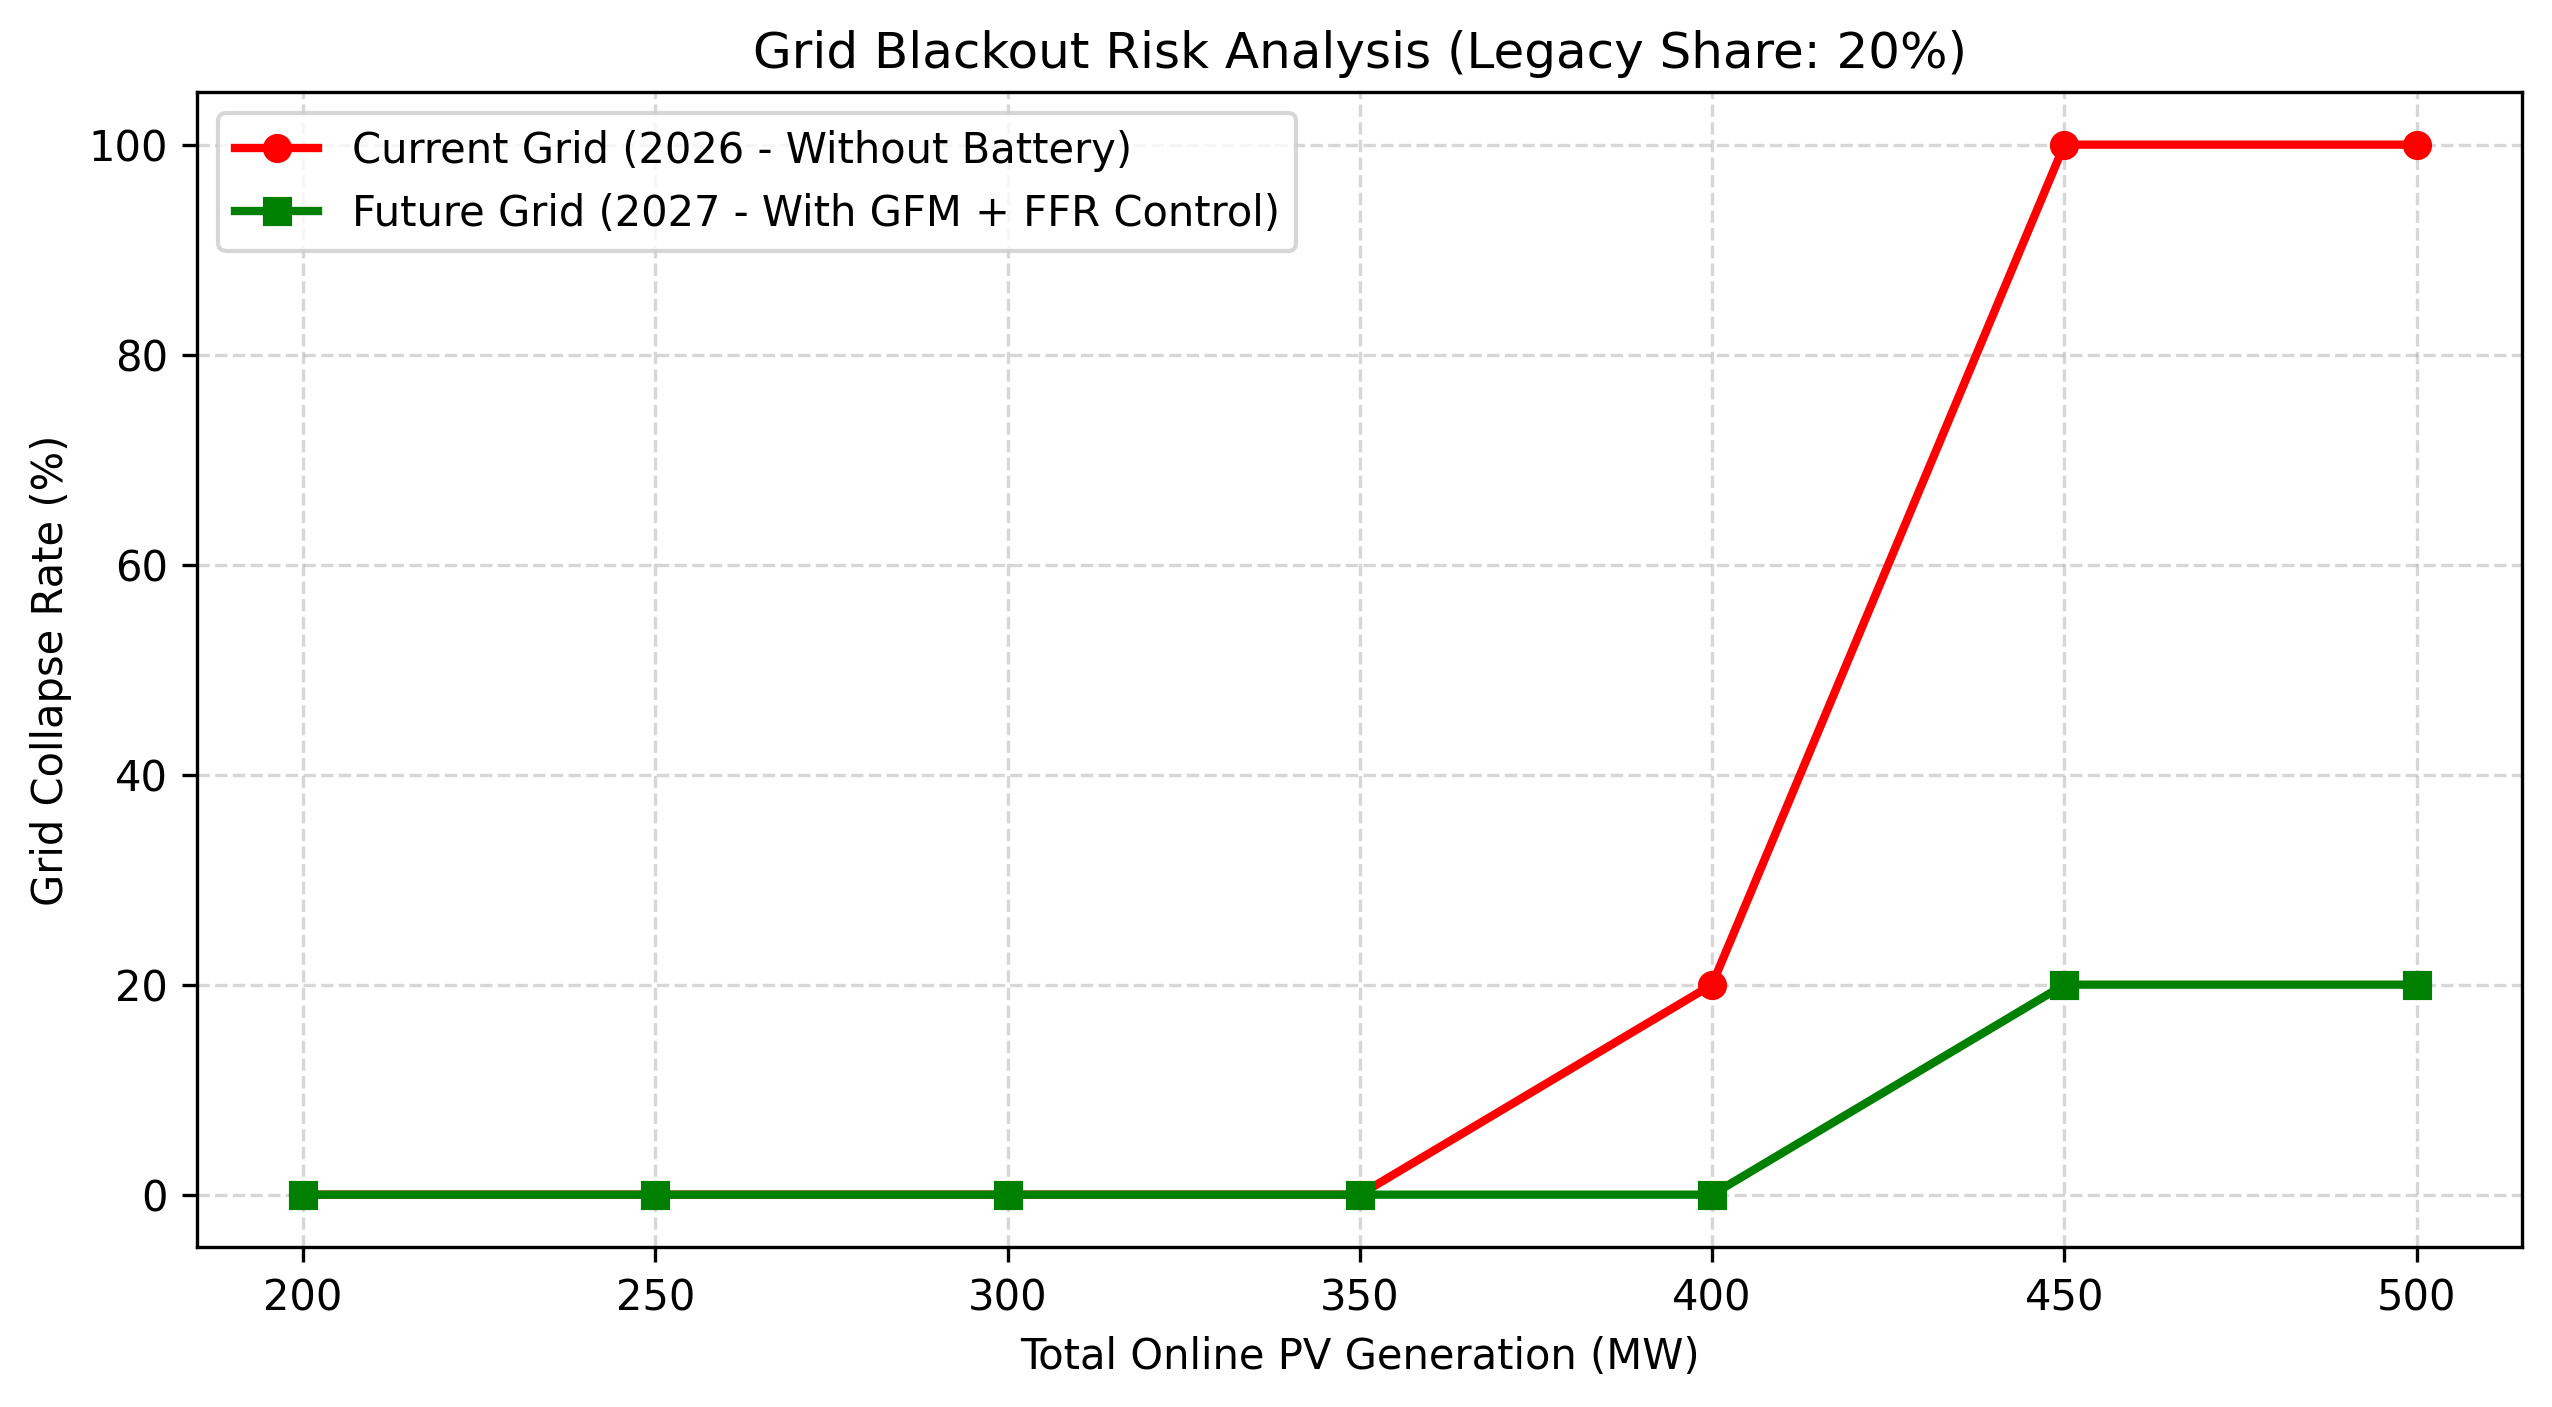
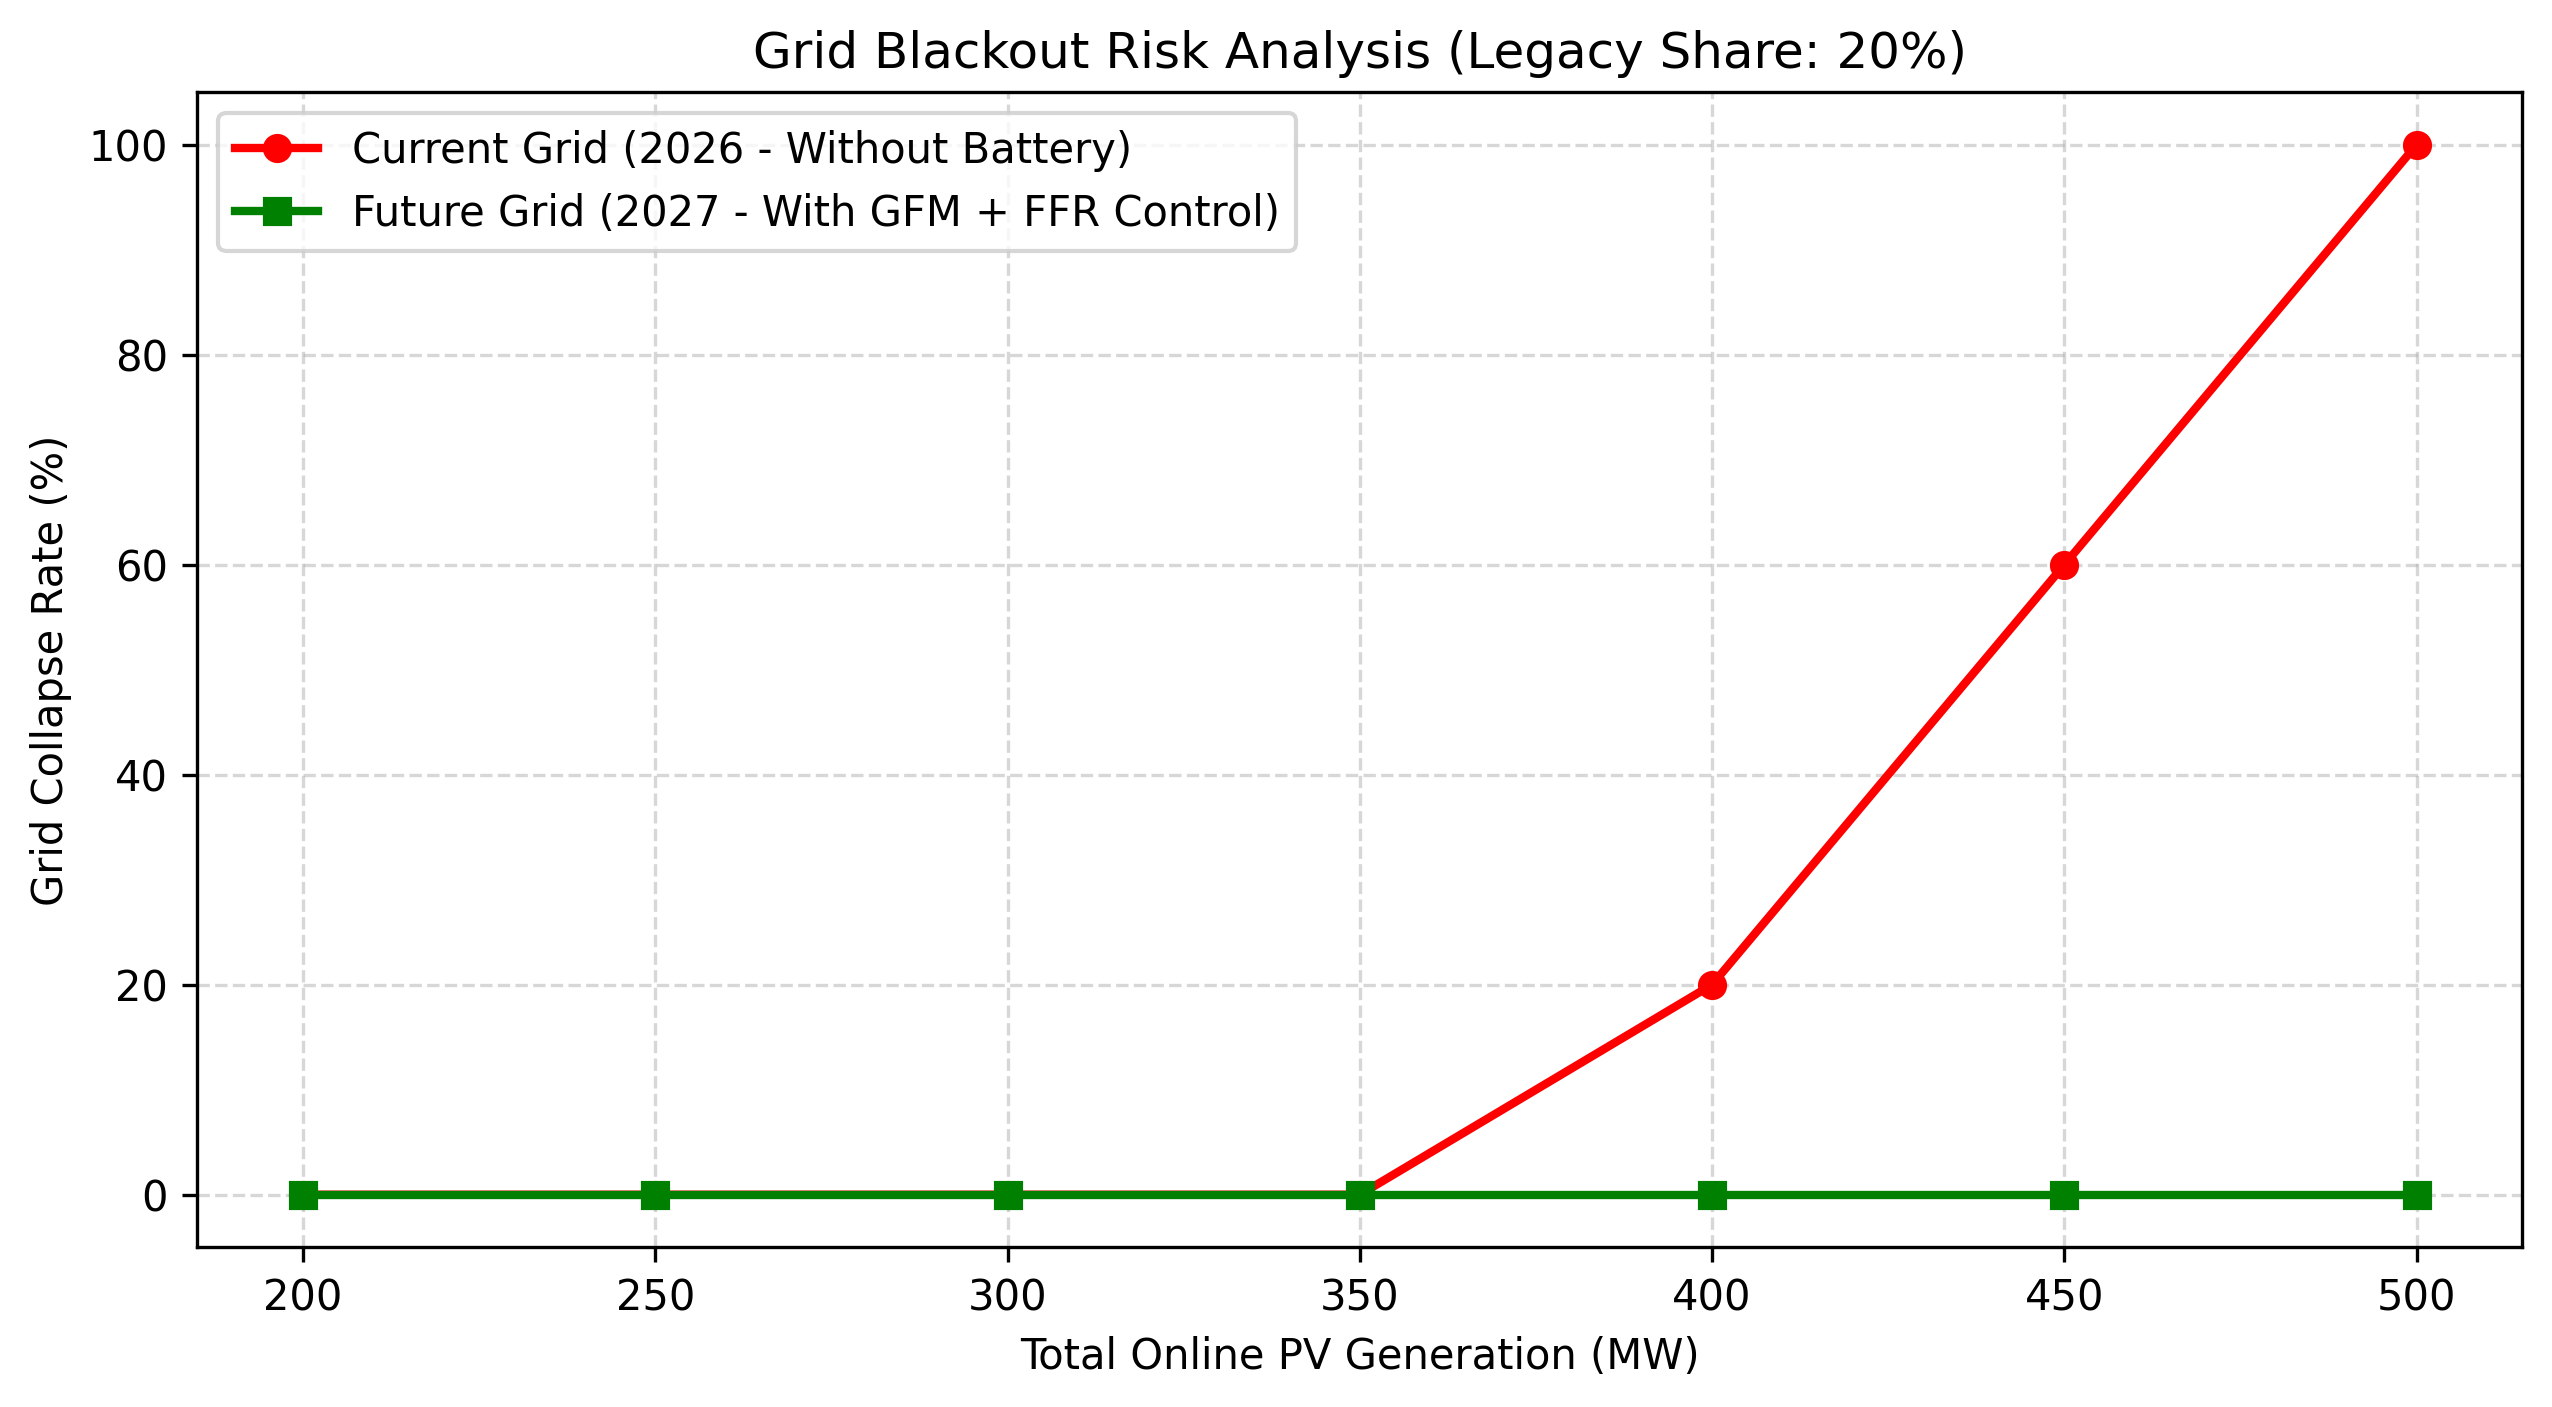
Add SOC,UFLS Cordination and VSM

diff --git a/src/pv_cascade.py b/src/pv_cascade.py
@@ -13,7 +13,7 @@ def run_simulation(pv_online_mw, legacy_share, trip_mw=130, system_load_mw=650, 
     steps = int(10.0 / dt)
     
     sync_gen = system_load_mw - pv_online_mw
-    H = max(4.0 * (sync_gen / system_load_mw), 0.5)
+    H_base = max(4.0 * (sync_gen / system_load_mw), 0.5)
     
     n_blocks = 200
     p_block = pv_online_mw / n_blocks
@@ -22,9 +22,7 @@ def run_simulation(pv_online_mw, legacy_share, trip_mw=130, system_load_mw=650, 
     f_limits = np.where(is_legacy, np.random.uniform(49.4, 49.6, n_blocks), 47.5)
     rocof_limits = np.where(is_legacy, np.random.uniform(0.4, 1.0, n_blocks), 2.0)
     
-    # Χρονόμετρο για κάθε block (πόσα βήματα παραμένει εκτός ορίων)
     trip_counters = np.zeros(n_blocks)
-    # Τα legacy tripάρουν σε 50ms (5 βήματα), τα modern σε 200ms (20 βήματα)
     trip_allowed_steps = np.where(is_legacy, 5, 20)
     active_blocks = np.ones(n_blocks, dtype=bool)
     
@@ -45,19 +43,35 @@ def run_simulation(pv_online_mw, legacy_share, trip_mw=130, system_load_mw=650, 
     Ki = 15.0   
     integral_error = 0.0
     p_gfl_arr = np.zeros(steps)
+    
+    # Advanced Parameters: SoC Tracking & VSM
+    soc_gfm = 0.50
+    soc_gfl = 0.50
+    gfm_energy_mwh = 240.0
+    gfl_energy_mwh = 300.0
+    soc_floor = 0.05
+    
+    J_vsm = 2.0  
+    D_vsm = 40.0 
+    p_gfm_vsm = 0.0
 
     for k in range(steps - 1):
         t_curr = k * dt
         p_trip = trip_mw if t_curr >= 1.0 else 0.0
         p_pv = np.sum(active_blocks) * p_block
         
-        if gfm_enabled and t_curr >= 1.0:
+        # 1. Grid-Forming VSM Control Loop with SoC Tracking
+        if gfm_enabled and t_curr >= 1.0 and soc_gfm > soc_floor:
             df = f0 - f[k]
-            p_gfm = min(gfm_capacity_mw, max(0.0, df * (gfm_capacity_mw / 0.5)))
+            d_p_gfm = (df * D_vsm - p_gfm_vsm) / J_vsm
+            p_gfm_vsm += d_p_gfm * dt
+            p_gfm = min(gfm_capacity_mw, max(0.0, p_gfm_vsm))
+            soc_gfm -= (p_gfm * (dt / 3600.0)) / gfm_energy_mwh
         else:
             p_gfm = 0.0
 
-        if t_curr >= 1.0:
+        # 2. Grid-Following FFR with RoCoF Override and SoC Tracking
+        if t_curr >= 1.0 and soc_gfl > soc_floor:
             if abs(rocof[max(0, k-1)]) >= rocof_ffr_threshold:
                 df_direct = f0 - f[k]
                 p_gfl_arr[k] = min(gfl_capacity_mw, max(0.0, df_direct * (gfl_capacity_mw / 0.4)))
@@ -72,23 +86,34 @@ def run_simulation(pv_online_mw, legacy_share, trip_mw=130, system_load_mw=650, 
                     p_gfl_arr[k] = 0.0
             else:
                 p_gfl_arr[k] = 0.0
+            soc_gfl -= (p_gfl_arr[k] * (dt / 3600.0)) / gfl_energy_mwh
         else:
             p_gfl_arr[k] = 0.0
 
+        # 3. Adaptive UFLS Coordination Loop
+        p_bess_total = p_gfm + p_gfl_arr[k]
+        p_deficit = p_trip + (pv_online_mw - p_pv)
+        bess_support_ratio = p_bess_total / max(1.0, p_deficit)
+        
         for idx, thresh in enumerate(ufls_stages):
             if f[k] <= thresh and not ufls_triggered[idx]:
-                p_load -= 0.10 * system_load_mw
+                # If BESS covers > 70% of the mismatch, reduce load shed stage by half
+                shed_multiplier = 0.5 if bess_support_ratio > 0.70 else 1.0
+                p_load -= (0.10 * shed_multiplier) * system_load_mw
                 ufls_triggered[idx] = True
                 
-        k1 = swing_equation(f[k], p_pv, p_gfm, p_gfl_arr[k], p_mech, p_load, p_trip, system_load_mw, H, f0)
-        k2 = swing_equation(f[k] + 0.5 * dt * k1, p_pv, p_gfm, p_gfl_arr[k], p_mech, p_load, p_trip, system_load_mw, H, f0)
-        k3 = swing_equation(f[k] + 0.5 * dt * k2, p_pv, p_gfm, p_gfl_arr[k], p_mech, p_load, p_trip, system_load_mw, H, f0)
-        k4 = swing_equation(f[k] + dt * k3, p_pv, p_gfm, p_gfl_arr[k], p_mech, p_load, p_trip, system_load_mw, H, f0)
+        # Total System Inertia (Physical + Emulated VSM Virtual Inertia)
+        H_total = H_base + (J_vsm if p_gfm > 0.0 else 0.0)
+                
+        # RK4 Solver Core
+        k1 = swing_equation(f[k], p_pv, p_gfm, p_gfl_arr[k], p_mech, p_load, p_trip, system_load_mw, H_total, f0)
+        k2 = swing_equation(f[k] + 0.5 * dt * k1, p_pv, p_gfm, p_gfl_arr[k], p_mech, p_load, p_trip, system_load_mw, H_total, f0)
+        k3 = swing_equation(f[k] + 0.5 * dt * k2, p_pv, p_gfm, p_gfl_arr[k], p_mech, p_load, p_trip, system_load_mw, H_total, f0)
+        k4 = swing_equation(f[k] + dt * k3, p_pv, p_gfm, p_gfl_arr[k], p_mech, p_load, p_trip, system_load_mw, H_total, f0)
         
         rocof[k] = k1
         f[k+1] = f[k] + (dt / 6.0) * (k1 + 2.0 * k2 + 2.0 * k3 + k4)
         
-        # Υλοποίηση χρονοκαθυστέρησης στις προστασίες (Trip Timers)
         out_of_bounds = (f[k+1] <= f_limits) | (abs(rocof[k]) >= rocof_limits)
         trip_counters[out_of_bounds] += 1
         trip_counters[~out_of_bounds] = 0  
